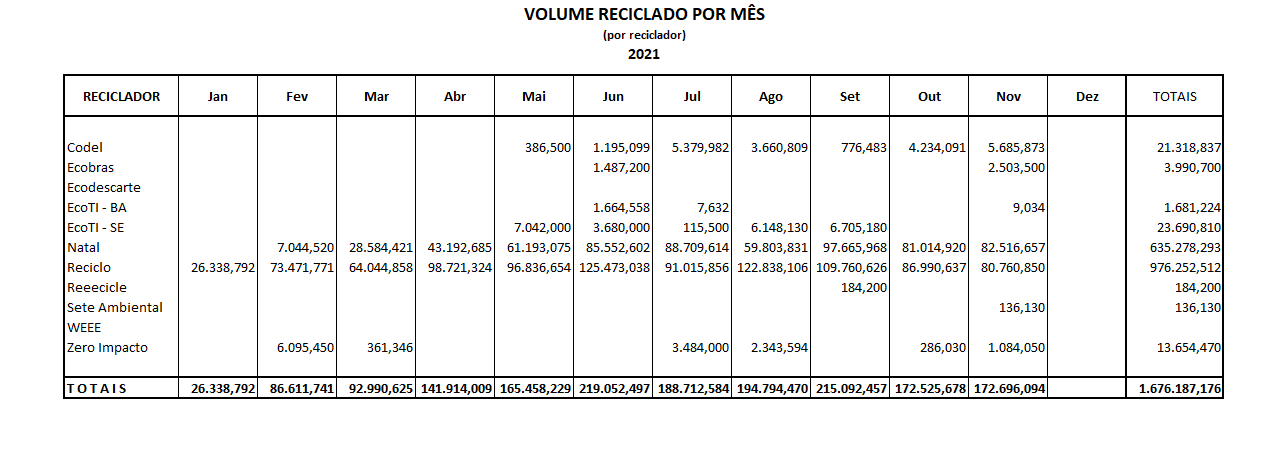
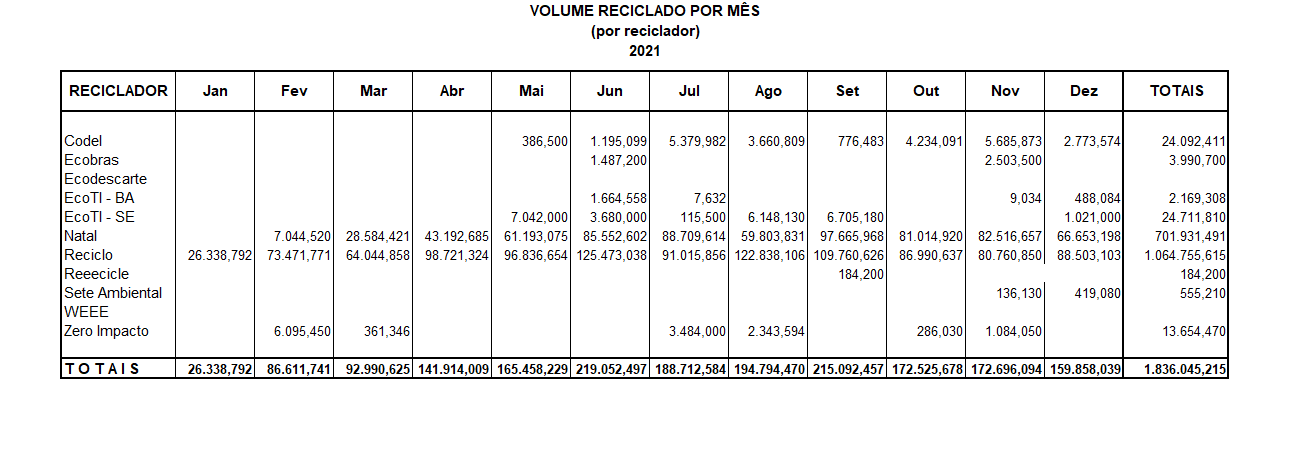
Dezembro 21

Changed region(s): [[0.0311, 0.1525, 0.9627, 0.8845], [0.4037, 0.0, 0.5901, 0.122]]

diff --git a/frontend/src/components/DataTable/index.tsx b/frontend/src/components/DataTable/index.tsx
@@ -9,24 +9,24 @@ const DataTable = () => {
                         <th>OT's</th>
                         <th>OS's</th>
                         <th>OD's</th>
-                        <th>Estoque em 30/11/21 (Kg)</th>
+                        <th>Estoque em 31/12/21 (Kg)</th>
                         <th>Peso Reciclado (Kg)</th>
                         
                     </tr>
                     <tr>
                         <td>Codel</td>
-                        <td>11</td>
-                        <td>91</td>
-                        <td>230</td>
-                        <td>11.216,397</td>
-                        <td>21.318,837</td>
+                        <td>20</td>
+                        <td>106</td>
+                        <td>264</td>
+                        <td>12.075,747</td>
+                        <td>24.092,411</td>
                     </tr>
                     <tr>
                         <td>Ecobras</td>
                         <td>0</td>
-                        <td>6</td>
+                        <td>7</td>
                         <td>9</td>
-                        <td>43.391,700</td>
+                        <td>57.892,300</td>
                         <td>3.990,700</td>
                     </tr>
                     <tr>
@@ -40,50 +40,50 @@ const DataTable = () => {
                     <tr>
                         <td>EcoTI - BA</td>
                         <td>24</td>
-                        <td>24</td>
-                        <td>12</td>
-                        <td>27.789,837</td>
-                        <td>1.681,224</td>
+                        <td>29</td>
+                        <td>18</td>
+                        <td>17.369,802</td>
+                        <td>2.169,308</td>
                     </tr>
                     <tr>
                         <td>EcoTI - SE</td>
                         <td>12</td>
-                        <td>102</td>
-                        <td>27</td>
-                        <td>28.452,853</td>
-                        <td>23.690,810</td>
+                        <td>119</td>
+                        <td>33</td>
+                        <td>29.908,353</td>
+                        <td>24.711,810</td>
                     </tr>
                     <tr>
                         <td>Natal</td>
-                        <td>113</td>
-                        <td>999</td>
-                        <td>148</td>
-                        <td>37.881,567</td>
-                        <td>635.278,293</td>
+                        <td>139</td>
+                        <td>1.189</td>
+                        <td>209</td>
+                        <td>88.196,510</td>
+                        <td>701.931,491</td>
                     </tr>
                     <tr>
                         <td>Reciclo</td>
-                        <td>274</td>
-                        <td>971</td>
-                        <td>584</td>
-                        <td>96.464,715</td>
-                        <td>976.252,512</td>
+                        <td>323</td>
+                        <td>1.042</td>
+                        <td>639</td>
+                        <td>73.954,027</td>
+                        <td>1.064.755,615</td>
                     </tr>
                     <tr>
                         <td>Reeecicle</td>
-                        <td>47</td>
-                        <td>169</td>
+                        <td>49</td>
+                        <td>175</td>
                         <td>1</td>
                         <td>26.887,103</td>
                         <td>184,200</td>
                     </tr>
                     <tr>
                         <td>Sete Ambiental</td>
-                        <td>98</td>
-                        <td>75</td>
-                        <td>1</td>
-                        <td>2.176,870</td>
-                        <td>136,130</td>
+                        <td>275</td>
+                        <td>202</td>
+                        <td>4</td>
+                        <td>12.866,691</td>
+                        <td>555,210</td>
                     </tr>
                     <tr>
                         <td>WEEE</td>
@@ -96,9 +96,9 @@ const DataTable = () => {
                     <tr>
                         <td>Zero Impacto</td>
                         <td>71</td>
-                        <td>195</td>
-                        <td>12</td>
-                        <td>28.422,197</td>
+                        <td>214</td>
+                        <td>20</td>
+                        <td>30.997,927</td>
                         <td>13.654,470</td>
                     </tr>
                     <tr>
@@ -111,11 +111,11 @@ const DataTable = () => {
                     </tr>
                     <tr>
                         <th>T O T A I S</th>
-                        <th>687</th>
-                        <th>2.638</th>
-                        <th>1.024</th>
-                        <th>302.807,289</th>
-                        <th>1.676.187,176</th>
+                        <th>950</th>
+                        <th>3.089</th>
+                        <th>1.197</th>
+                        <th>350.272,510</th>
+                        <th>1.836.045,215</th>
                     </tr>
                 </thead>
                 <tbody>

diff --git a/frontend/src/components/DonutChart/index.tsx b/frontend/src/components/DonutChart/index.tsx
@@ -3,7 +3,7 @@ import Chart from 'react-apexcharts';
 const DonutChart = () => {
 
     const mockData = {
-        series: [21.319, 3.991, 0, 1.681, 23.691, 635.278, 976.253, 0.184, 0.136, 0, 13.654],
+        series: [24.092, 3.991, 0, 2.169, 24.712, 701.931, 1064.756, 0.184, 0.555, 0, 13.654],
         labels: ['Codel', 'Ecobras', 'Ecodescarte', 'EcoTI - BA', 'EcoTI - SE', 'Natal', 'Reciclo', 'Reeecicle', 'Sete Ambiental', 'WEEE', 'Zero Impacto']
     }
     

diff --git a/frontend/src/components/BarRecbMensal/index.tsx b/frontend/src/components/BarRecbMensal/index.tsx
@@ -21,7 +21,7 @@ const BarRecbMensal = () => {
         series: [
             {
                 name: "Kg Recebidos",
-                data: [102387, 106589,	121879, 137705, 186442, 187583, 171701, 160630, 229986, 179618, 227566, 0]                  
+                data: [102387, 106589,	121879, 137705, 186442, 187583, 171701, 160630, 229986, 179618, 227566, 230076]                  
             }
         ]
     };

diff --git a/frontend/src/components/BarReciclMensal/index.tsx b/frontend/src/components/BarReciclMensal/index.tsx
@@ -21,7 +21,7 @@ const BarReciclMensal = () => {
         series: [
             {
                 name: "Kg Reciclados",
-                data: [26339, 86612, 92991, 141914, 165458, 219052, 188713, 194794, 215092, 172526, 172696, 0]                  
+                data: [26339, 86612, 92991, 141914, 165458, 219052, 188713, 194794, 215092, 172526, 172696, 159858]                  
             }
         ]
     };

diff --git a/frontend/src/components/BarChart/index.tsx b/frontend/src/components/BarChart/index.tsx
@@ -17,7 +17,7 @@ const BarChart = () => {
         series: [
             {
                 name: "Ton Reciclados",
-                data: [21.319, 3.991, 0, 1.681, 23.691, 635.278, 976.253, 0.184, 0.136, 0, 13.654]                  
+                data: [24.092, 3.991, 0, 2.169, 24.712, 701.931, 1064.756, 0.184, 0.555, 0, 13.654]                  
             }
         ]
     };

diff --git a/frontend/src/components/BarOSs/index.tsx b/frontend/src/components/BarOSs/index.tsx
@@ -22,7 +22,7 @@ const BarOSs = () => {
         series: [
             {
                 name: "OS's Abertas",
-                data: [91, 6, 6, 24, 102, 999, 971, 169, 75, 0, 195]                  
+                data: [106, 7, 6, 29, 119, 1189, 1042, 175, 202, 0, 214]                  
             }
         ]
     };

diff --git a/frontend/src/components/BarOTs/index.tsx b/frontend/src/components/BarOTs/index.tsx
@@ -22,7 +22,7 @@ const BarOTs = () => {
         series: [
             {
                 name: "OT's Abertas",
-                data: [11, 0, 37, 24, 12, 113, 274, 47, 98, 0, 71]                  
+                data: [20, 0, 37, 24, 12, 139, 323, 49, 275, 0, 71]                  
             }
         ]
     };

diff --git a/frontend/src/components/BarODs/index.tsx b/frontend/src/components/BarODs/index.tsx
@@ -22,7 +22,7 @@ const BarODs = () => {
         series: [
             {
                 name: "OD's Abertas",
-                data: [230, 9, 0, 12, 27, 148, 584, 1, 1, 0, 12]                  
+                data: [264, 9, 0, 18, 33, 209, 639, 1, 4, 0, 20]                  
             }
         ]
     };
